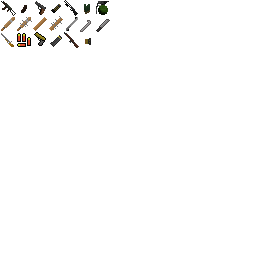
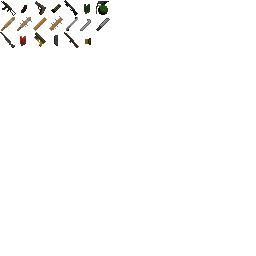
sMRPINKYPUFFw additions and fixes

diff --git a/DayZ.java b/DayZ.java
@@ -33,6 +33,7 @@ import dayz.common.items.ItemDayzFood;
 import dayz.common.items.ItemDayzHeal;
 import dayz.common.items.ItemDbShotgun;
 import dayz.common.items.ItemEmptyBottle;
+import dayz.common.items.ItemEmptyCan;
 import dayz.common.items.ItemEnfield;
 import dayz.common.items.ItemFirestarter;
 import dayz.common.items.ItemGlock17;
@@ -96,7 +97,8 @@ public class DayZ
 	public static boolean canSpawnZombiesInDefaultWorld;
 	
     public static final Item matches = (new ItemFirestarter(3000, 8)).setIconCoord(2, 0).setItemName("matches");
-
+    public static final Item emptyCan = new ItemEmptyCan(3043).setItemName("emptycan").setIconCoord(13, 0).setCreativeTab(DayZ.creativeTabDayZ);
+    
 	public static final Item heinz = new ItemDayzFood(3002, 6, 1, false).setIconCoord(11, 0).setItemName("heinz").setCreativeTab(DayZ.creativeTabDayZ);
 	public static final Item cannedspag = new ItemDayzFood(3003, 6, 1, false).setIconCoord(2, 0).setItemName("cannedspag").setCreativeTab(DayZ.creativeTabDayZ);
     public static final Item cannedbeans = new ItemDayzFood(3004, 6, 1, false).setIconCoord(0, 0).setItemName("cannedbeans").setCreativeTab(DayZ.creativeTabDayZ);

diff --git a/common/world/ChunkProviderDayZ.java b/common/world/ChunkProviderDayZ.java
@@ -166,11 +166,11 @@ public class ChunkProviderDayZ extends ChunkProviderGenerate implements IChunkPr
 	        }
         }
         
-        for (var12 = 0; var12 < 8; ++var12)
+        for (var12 = 0; var12 < 12; ++var12)
         {
-            var13 = var4 + this.rand.nextInt(32) + 8;
+            var13 = var4 + this.rand.nextInt(16) + 8;
             var14 = this.rand.nextInt(128);
-            int var15 = var5 + this.rand.nextInt(32) + 8;
+            int var15 = var5 + this.rand.nextInt(16) + 8;
             
             DayZStructureHandler.DayZStructure(this.worldObj, this.rand, var13, var14, var15);
         }

diff --git a/common/items/ItemDayzFood.java b/common/items/ItemDayzFood.java
@@ -1,5 +1,6 @@
 package dayz.common.items;
 
+import dayz.DayZ;
 import net.minecraft.src.EntityPlayer;
 import net.minecraft.src.ItemFood;
 import net.minecraft.src.ItemStack;
@@ -38,7 +39,7 @@ public class ItemDayzFood extends ItemFood
         par3EntityPlayer.getFoodStats().addStats(this);
         par2World.playSoundAtEntity(par3EntityPlayer, "random.burp", 0.5F, par2World.rand.nextFloat() * 0.1F + 0.9F);
         this.func_77849_c(par1ItemStack, par2World, par3EntityPlayer);
-        return par1ItemStack;
+        return new ItemStack(DayZ.emptyCan);
     }
 
     @Override

diff --git a/common/items/ItemEmptyCan.java b/common/items/ItemEmptyCan.java
@@ -1,0 +1,18 @@
+package dayz.common.items;
+
+import net.minecraft.src.Item;
+
+public class ItemEmptyCan extends Item
+{
+    public ItemEmptyCan(int i)
+    {
+        super(i);
+        maxStackSize = 1;
+    }
+    
+    @Override
+    public String getTextureFile()
+    {
+        return "/dayz/images/food.png";
+    }
+}

diff --git a/common/blocks/TileEntityChestDayZ.java b/common/blocks/TileEntityChestDayZ.java
@@ -151,9 +151,7 @@ public class TileEntityChestDayZ extends TileEntityChest implements IInventory
         		return;
     		}
     	}
-    	
-    	DayZLog.info("Chest tick");
-    	
+    	    	
     	int i = this.xCoord;
     	int j = this.yCoord;
     	int k = this.zCoord;
